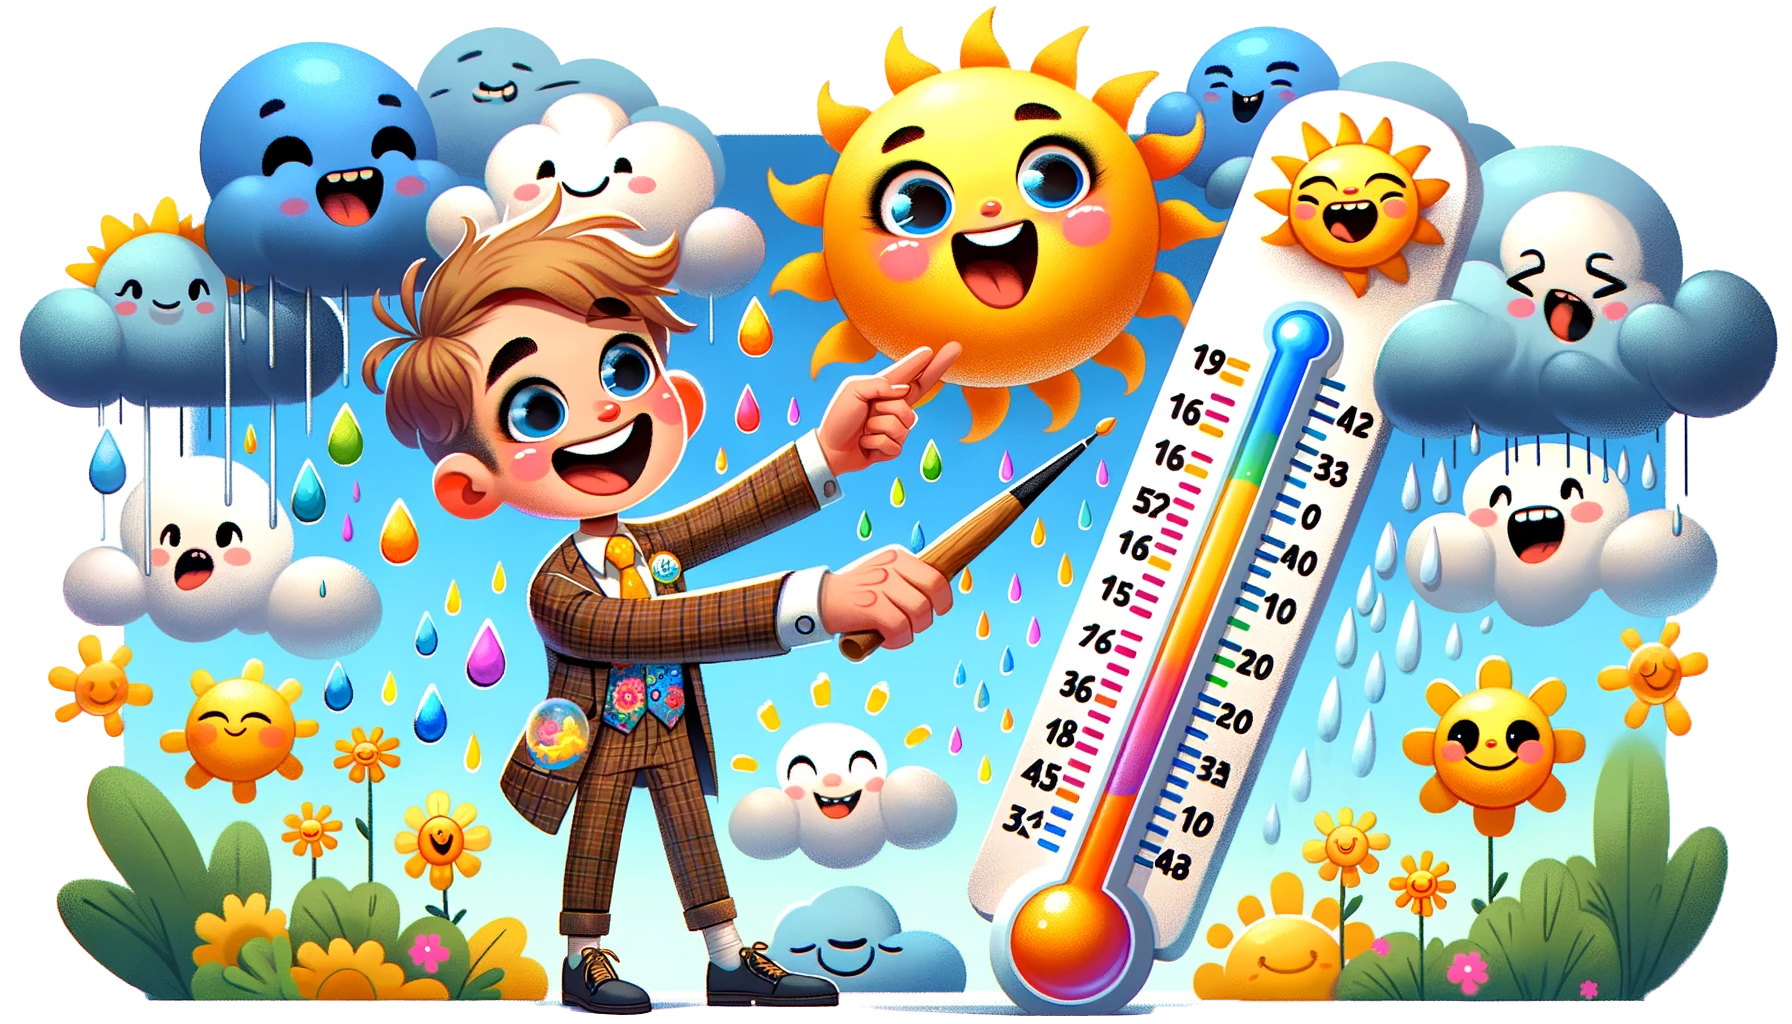
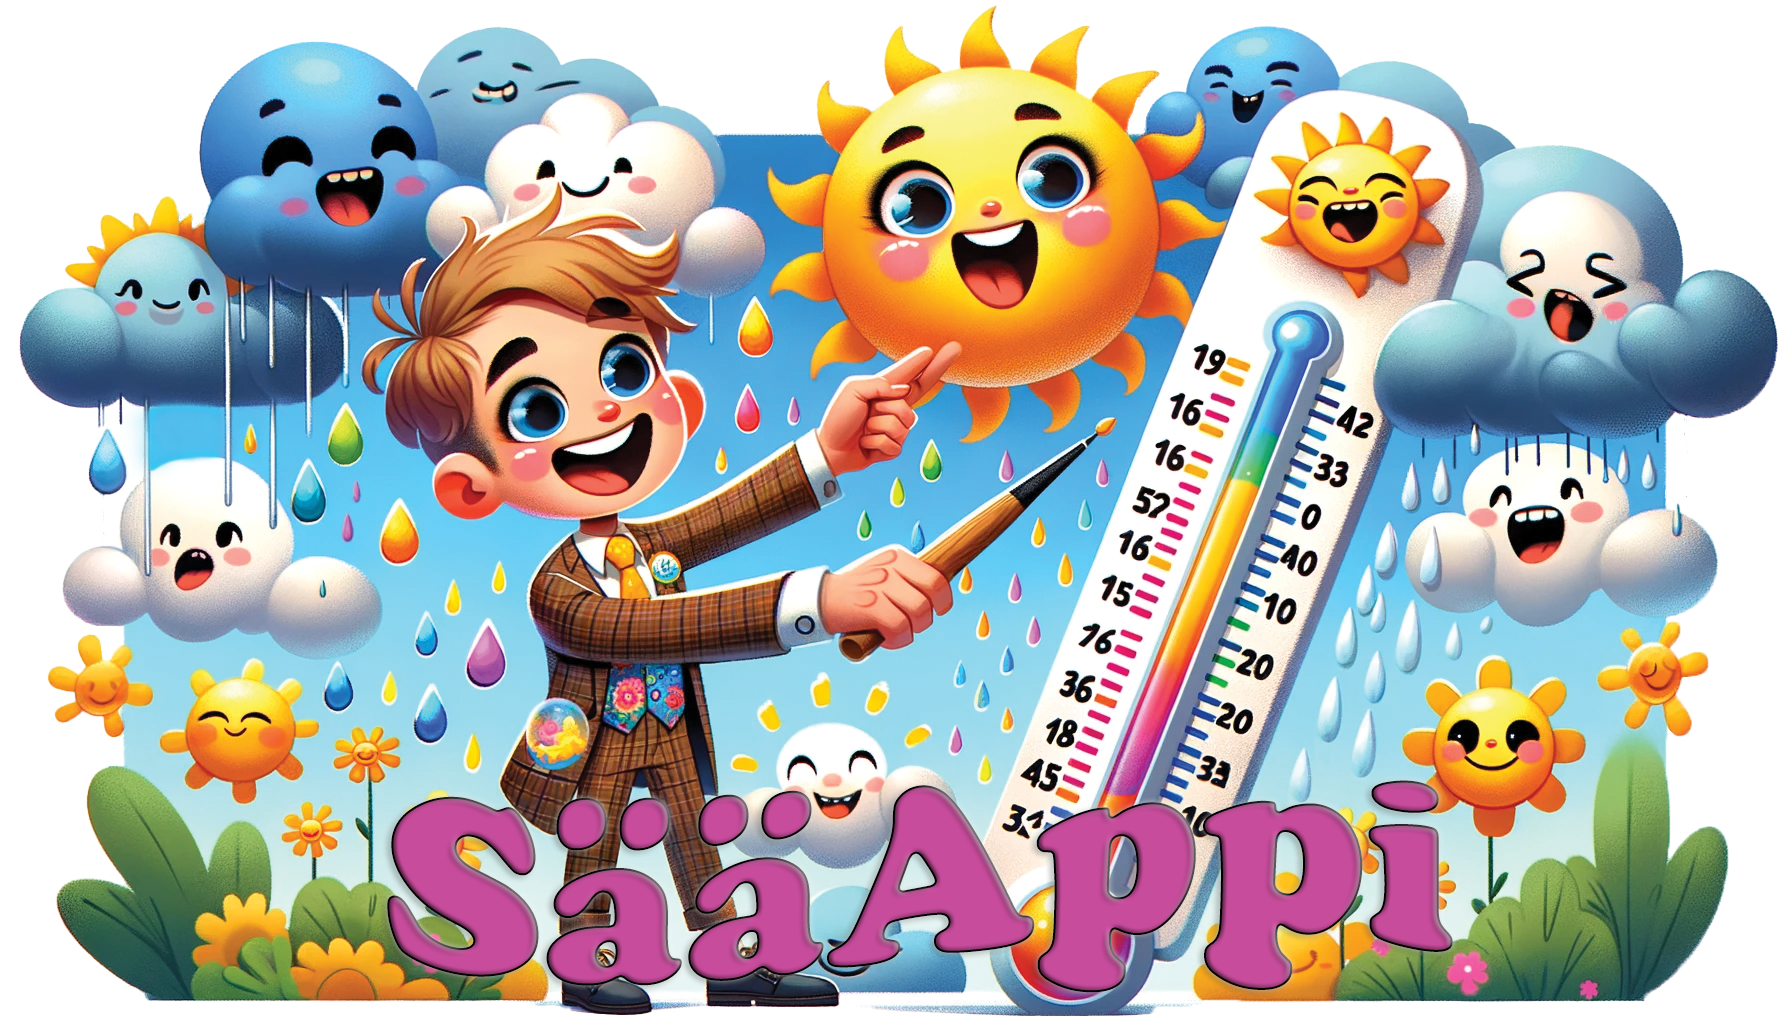
QOL päivityksiä
Lisätty kuuntelija hakukentälle, tyhjentyy clikkauksesta. Lisätty virheilmoitukset Alert muodossa virheellisestä hausta. Lisätty fade in efekti säätietoihin. Lisätty koordinaatit haetulle paikalle. Muokattu banner kuvaa photarilla.

diff --git a/script.js b/script.js
@@ -5,6 +5,15 @@ document.addEventListener('DOMContentLoaded', function() {
     document.querySelector('.weather').style.display = 'none';
 });
 
+// Etsitään hakukenttä elementti
+const cityInput = document.getElementById('city-input');
+
+// Lisätään click-tapahtumakuuntelija hakukenttään
+cityInput.addEventListener('click', function() {
+    // Tyhjennetään hakukenttä kun se klikataan hiirellä aktiiviseksi
+    this.value = '';
+});
+
 // Kuuntelija hakupainikkeelle
 document.getElementById('search-button').addEventListener('click', function() {
     const city = document.getElementById('city-input').value;
@@ -23,6 +32,13 @@ function fetchWeatherData(city) {
     const apiKey = '6d7af184bdc191fcc0635ee39590a743';
     const url = `https://api.openweathermap.org/data/2.5/weather?q=${city}&appid=${apiKey}&units=metric&lang=fi`;
 
+        // Lisätään tarkistus, onko hakukenttä tyhjä
+        if (city.trim() === '') {
+            alert('Anna kaupungin/maan nimi ennen haun suorittamista.');
+            resetWeatherDetails();
+            return;
+        }
+
     fetch(url)
         .then(response => {
             if (!response.ok) {
@@ -36,24 +52,64 @@ function fetchWeatherData(city) {
         })
         .catch(error => {
             console.error("Virhe haettaessa säätietoja: ", error);
+            alert('Säätietoja ei löytynyt. Tarkista kaupungin/maan nimi ja yritä uudelleen.');
+            resetWeatherDetails();
+
+        // Tyhjennä hakukenttä virheilmoituksen jälkeen
+            document.getElementById('city-input').value = '';
         });
+}
+
+function resetWeatherDetails() {
+    document.querySelector('.paikka').style.display = 'none';
+    document.querySelector('.weather').style.display = 'none';
 }
 
 // Päivitetään sivun elementteihin saatu säädata
 function updateWeatherDetails(data) {
     document.getElementById('city').textContent = data.name;
-    document.getElementById('temp').textContent = data.main.temp + ' °C';
-    document.getElementById('feels-like').textContent = '(Tuntuu kuin ' + data.main.feels_like + ' °C)';
+    const temperature = Math.round(data.main.temp); // Pyöristetään lämpötila
+    document.getElementById('temp').textContent = temperature + ' °C';
+    document.getElementById('feels-like').textContent = 'Tuntuu kuin ' + Math.round(data.main.feels_like) + ' °C';
     document.getElementById('humidity').textContent = data.main.humidity + ' %';
     document.getElementById('wind').textContent = data.wind.speed + ' km/h';
+
+    // Haetaan leveys- ja pituusasteet APIsta
+    const latitude = data.coord.lat;
+    const longitude = data.coord.lon;
+    // Luodaan linkki Google Mapsiin
+    const googleMapsLink = `https://www.google.com/maps/search/?api=1&query=${latitude},${longitude}`;
+    // Haetaan coords-link HTML pohjasta
+    const coordsLinkElement = document.getElementById('coords-link');
+    // Asetetaan linkin href-attribuutti
+    coordsLinkElement.href = googleMapsLink;
+    // Asetetaan linkin tekstiksi pyöristetyt koordinaatit
+    coordsLinkElement.textContent = `${latitude.toFixed(2)}, ${longitude.toFixed(2)}`;
+    // Asetetaan linkki näkyviin käyttäjälle
+    coordsLinkElement.style.display = 'inline';
 
     // Haetaan sääkuva datasta ja luodaan polku kuvalle
     const weatherIcon = getWeatherIcon(data.weather[0].main);
     document.getElementById('weather-icon').src = `images/${weatherIcon}.png`;
 
-    // Tuodaan säätiedot näkyviin
-    document.querySelector('.paikka').style.display = 'block';
-    document.querySelector('.weather').style.display = 'block';
+    // Tuodaan säätiedot näkyviin fade-in efektillä
+    const placeElement = document.querySelector('.paikka');
+    const weatherElement = document.querySelector('.weather');
+
+    // Poistetaan ensin mahdolliset aiemmat fade-in luokat
+    placeElement.classList.remove('fade-in');
+    weatherElement.classList.remove('fade-in');
+
+    // Pakotetaan selain päivittämään muutokset ennen animaation lisäämistä
+    void placeElement.offsetWidth;
+    void weatherElement.offsetWidth;
+
+    // Lisätään fade-in luokka uudelleen
+    placeElement.classList.add('fade-in');
+    weatherElement.classList.add('fade-in');
+
+    placeElement.style.display = 'block';
+    weatherElement.style.display = 'block';
 }
 
 // Palauttaa sään kuvan annetujen tietojen perusteella

diff --git a/styles.css b/styles.css
@@ -82,7 +82,7 @@ body {
 .content-wrapper {
     background-color: rgba(214, 90, 142, 0.8);
     padding: 20px;
-    padding-bottom: 45px;
+    padding-bottom: 55px;
     margin: 20px auto;
     border-radius: 15px;
     width: 70%;
@@ -90,3 +90,11 @@ body {
     max-width: 425px;
 }
 
+@keyframes fadeIn {
+    from { opacity: 0; }
+    to { opacity: 1; }
+}
+
+.fade-in {
+    animation: fadeIn 2s;
+}

diff --git a/index.html b/index.html
@@ -24,6 +24,7 @@
 
         <div class="paikka">
             <h1 id="city">Paikka</h1>
+            <a id="coords-link" href="#" target="_blank" style="display: none;">Koordinaatit</a>
         </div>
         <div class="weather">
             <img src="images/clear.png" class="weather-icon" id="weather-icon">
